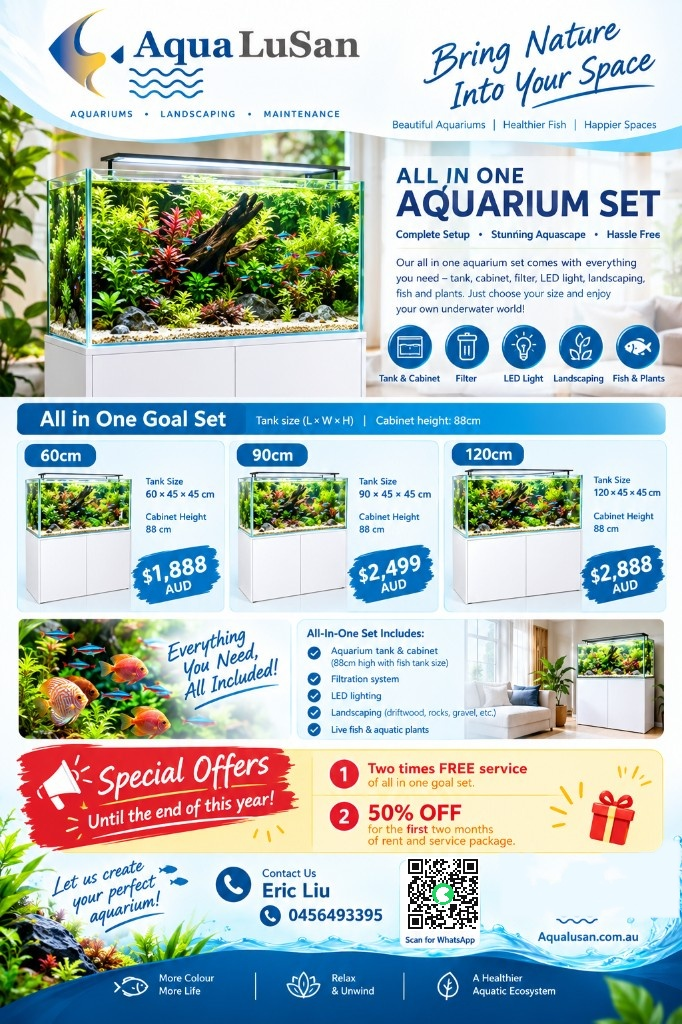
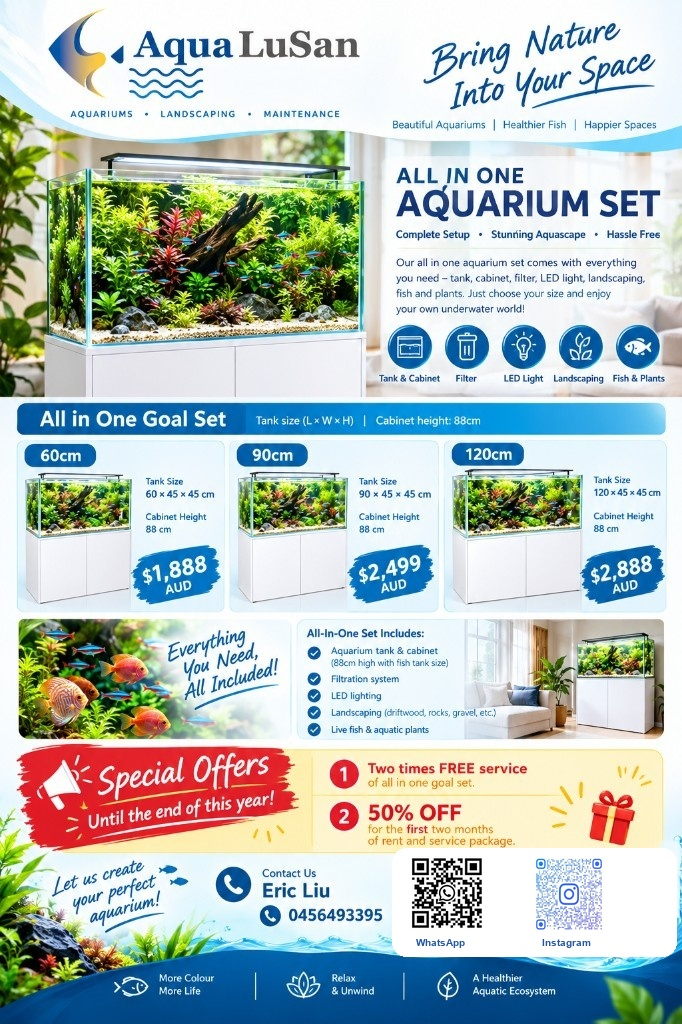
Put Eric Liu’s WhatsApp and Instagram QR codes on the home flyer.

Changed region(s): [[0.5543, 0.8125, 1.0, 0.9375]]

diff --git a/index.html b/index.html
@@ -32,7 +32,7 @@
           </div>
         </div>
         <figure class="media">
-          <img src="images/all-in-one-flyer.jpg?v=qr2" alt="AquaLuSan all-in-one aquarium set advertisement with sizes and prices">
+          <img src="images/all-in-one-flyer.jpg?v=qr3" alt="AquaLuSan all-in-one aquarium set advertisement with sizes and prices">
         </figure>
       </div>
     </section>
